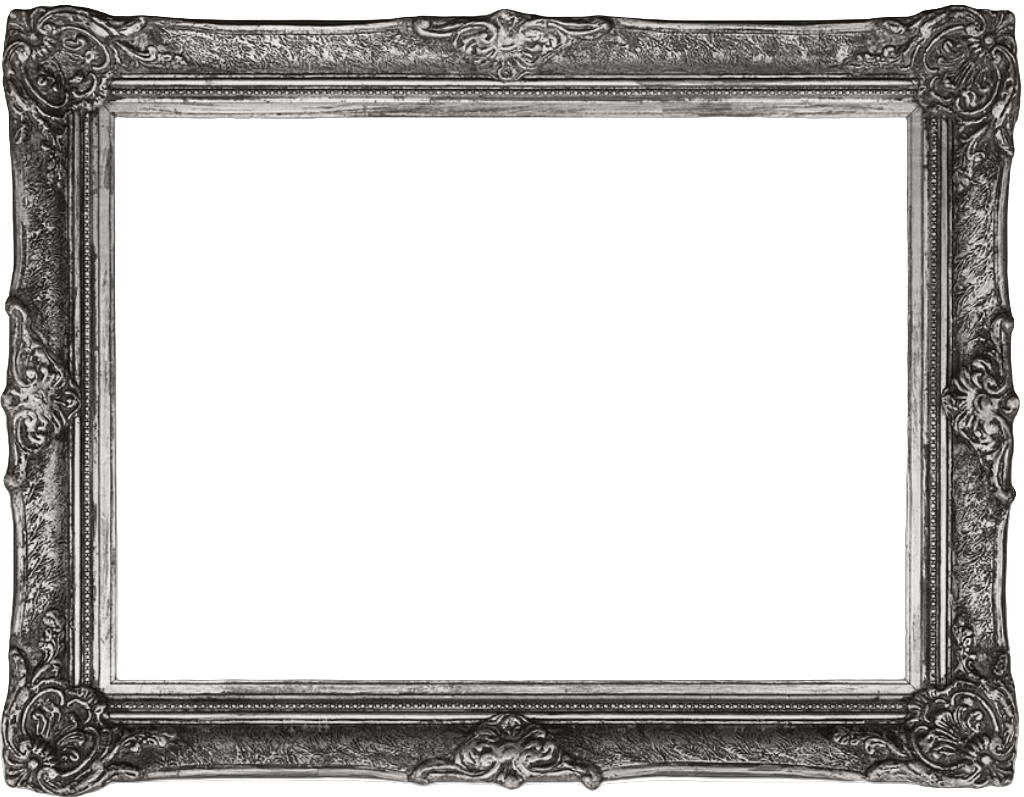
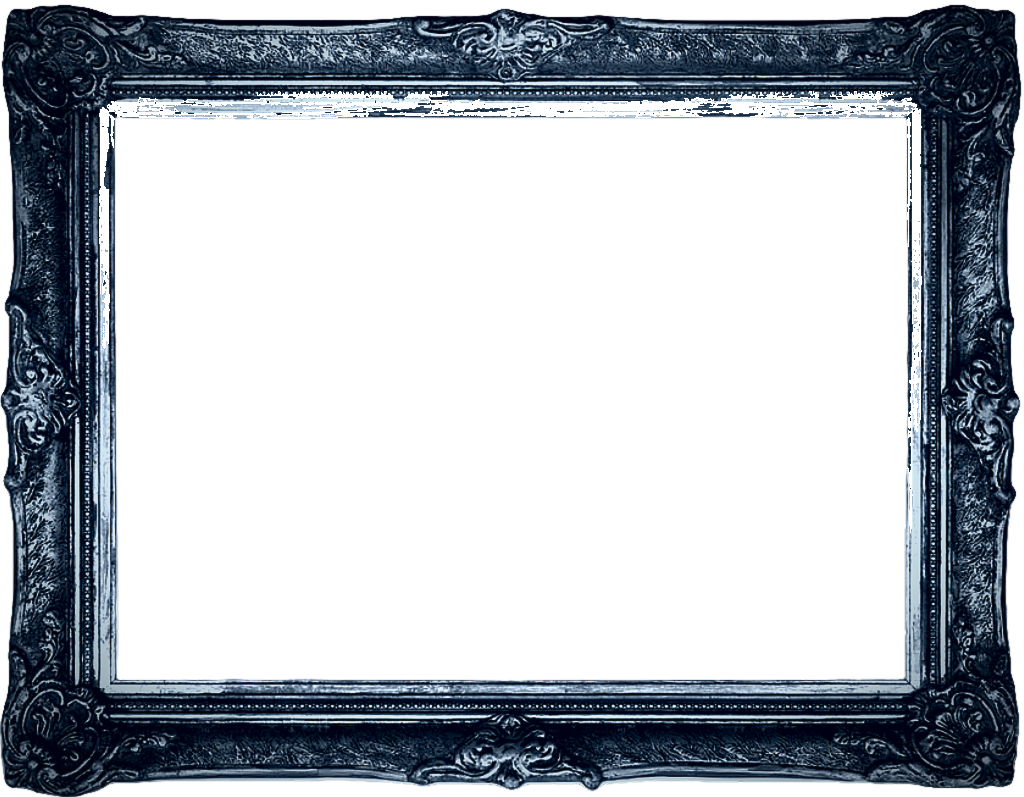
color suggestion, previosu color version: mirrorold.png

diff --git a/client/src/styles/home.css b/client/src/styles/home.css
@@ -94,7 +94,7 @@
 
 .transparent-background {
     width: 400px;
-    background: linear-gradient(to right, #5e5b5be0, #cfddeafe);
+    background: linear-gradient(to right, #5e5b5be0, #99a8b7fe);
 }
 
 h2 {
